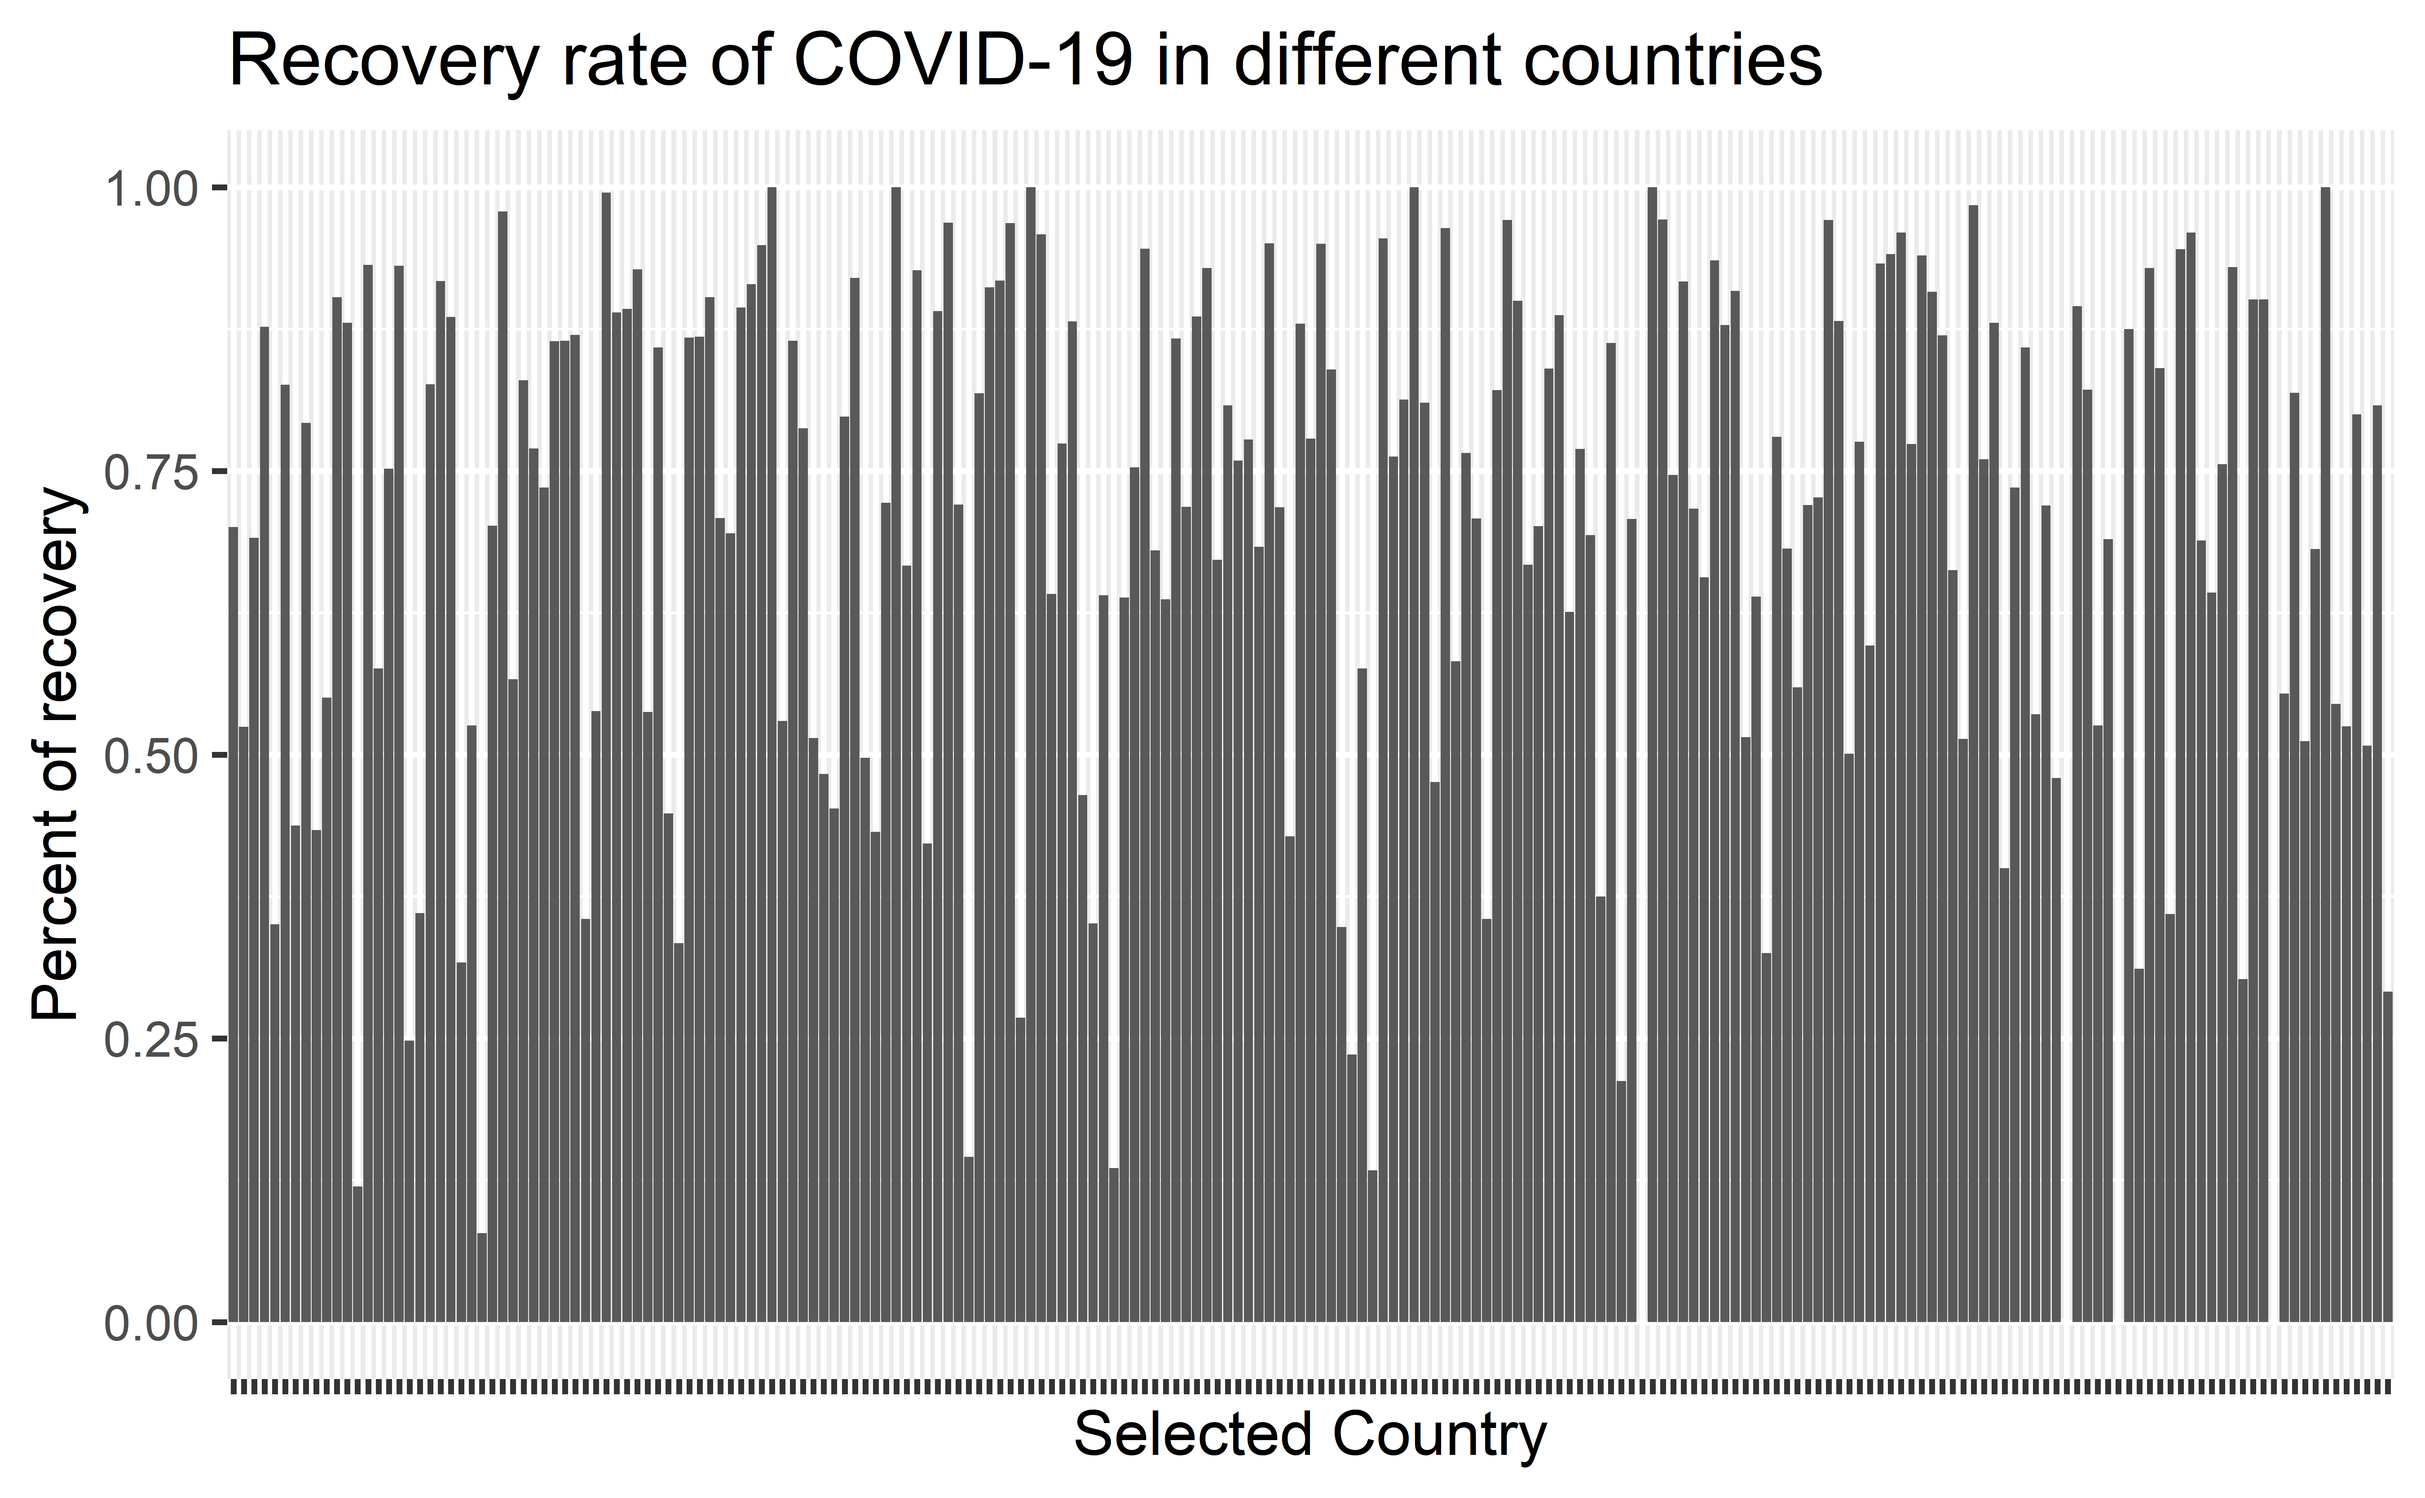
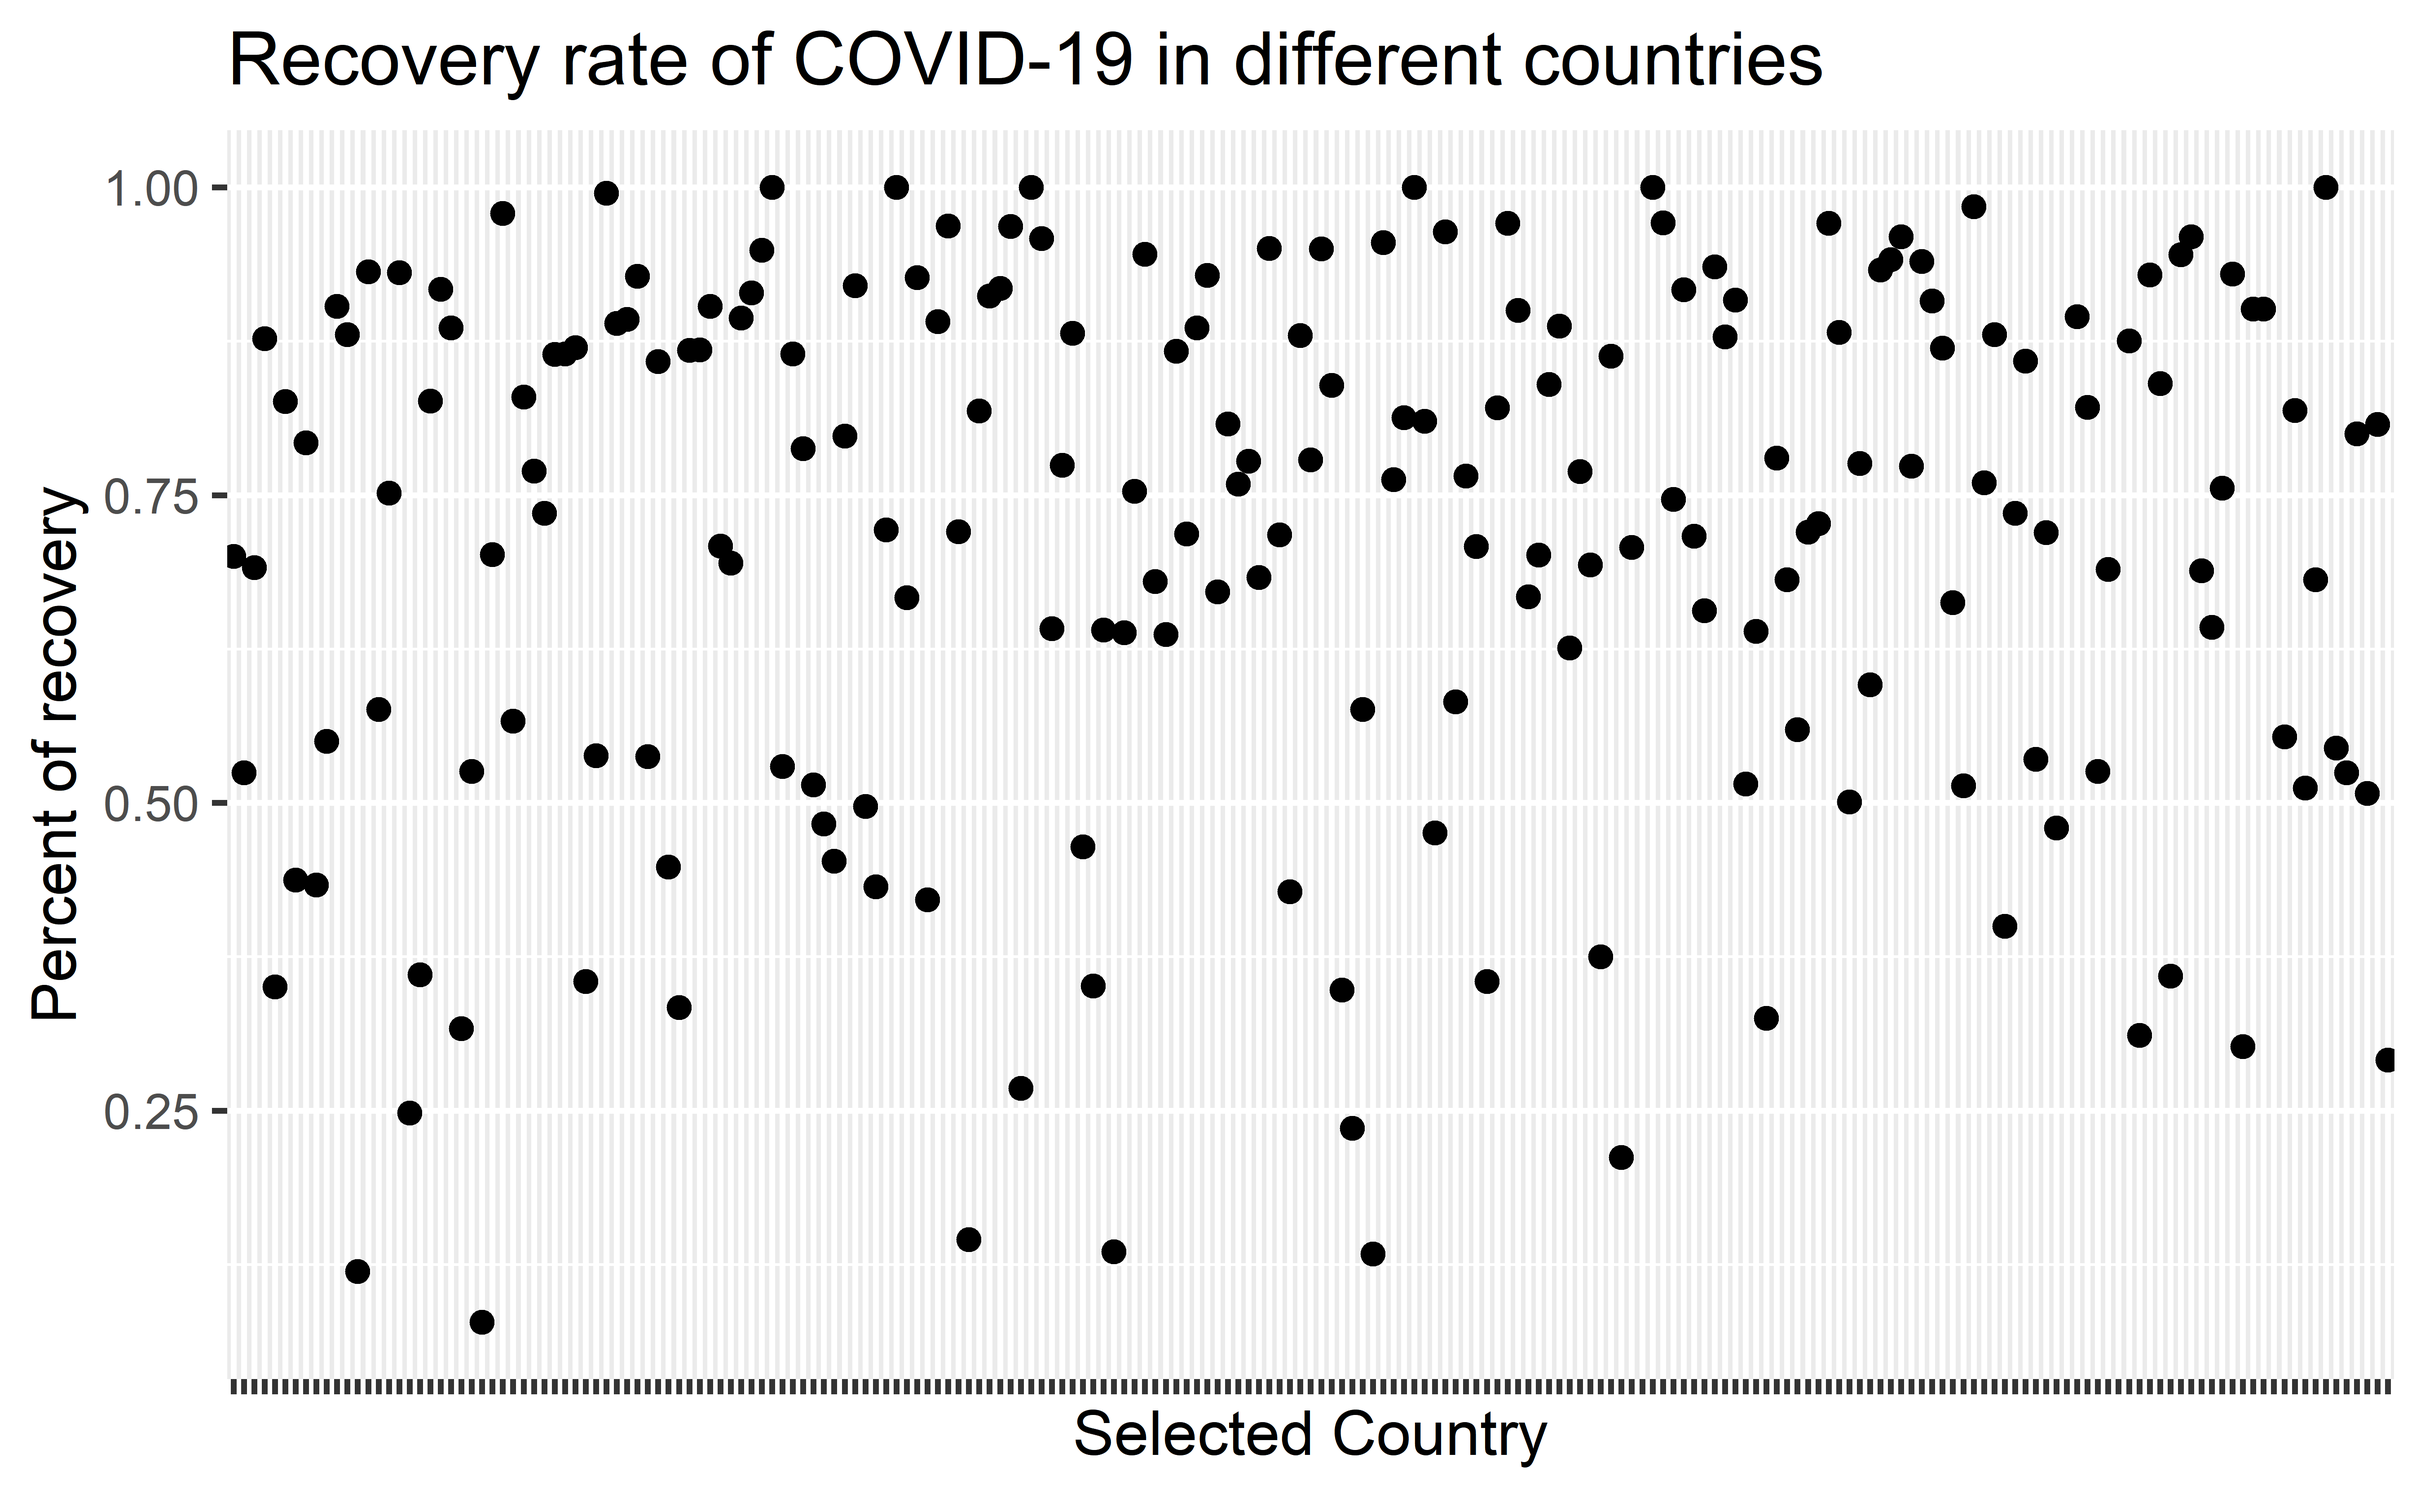
1

diff --git a/summary.html b/summary.html
@@ -422,6 +422,34 @@ the following details, we would pay more attention to Americas
 region,especially USA. We will also use death and recovered variables to
 do some data visualization.</p>
 </div>
+<div id="recovery-rate-of-covid-19-in-different-countries" class="section level2">
+<h2>Recovery rate of COVID-19 in different countries</h2>
+<p>We have retrieved the number of new crown infections and the number
+of recovered people in various countries in the world in 2022, and the
+recovery rate of the new crown virus can be obtained from our obtained
+data. In the figure, we can see that the recovery rates of different
+countries are not the same or even very different. Next, we will analyse
+the recovery rate in different regions. Then we extracted the data of
+countries with low recovery rate and countries with high recovery rate,
+and made a bar picture to clearly show that the recovery rate of the
+lowest country is even less than 10%, while that of countries with high
+recovery rate is even more than 98%, which is a very large range. Before
+data collation, it was speculated whether the recovery rate was related
+to the country’s economic and welfare policies. However, after obtaining
+different recovery rates and using Internet search engines, the data was
+not the same. Among countries with higher recovery rates, the per
+capital GDP of regions with higher recovery rates even reached 51875
+dollars per person, while that of regions with lower GDP was only 787
+dollars. Countries with low recovery rates have the same situation. It
+can be seen that recovery rates are not closely related to the national
+economy. In the process of data selection, we can clearly see that more
+countries have higher recovery rates from the data of all countries.
+Therefore, we can get that COVID-19 is not 100% fatal, and if it is
+unfortunately infected, there will be a greater chance of recovery, of
+course, it also depends on your region. In the process of analysing this
+problem, it is a very intuitive way to use r language to analyse and
+make icons.</p>
+</div>
 <div id="the-map-of-covid-distribute" class="section level2">
 <h2>the map of Covid distribute</h2>
 <p>In this question, we want to use maps to introduce the distribute of
@@ -483,6 +511,12 @@ positive to be higher, on average, by 0.729 percent.</p>
 <p>Then we make predictions for test data,plot the ROC curves,and
 calculate the areas under the ROC curves, we find model performs well,
 because it has o.98 areas under the line,is close to 1.</p>
+</div>
+<div id="data" class="section level2">
+<h2>DATA</h2>
+<p>All of the data we use are found on Kaggle.</p>
+<p><a href="https://www.kaggle.com/datasets/imdevskp/corona-virus-report?search=COVID-19+DATASET" class="uri">https://www.kaggle.com/datasets/imdevskp/corona-virus-report?search=COVID-19+DATASET</a>
+<a href="https://www.kaggle.com/datasets/rishanmascarenhas/covid19-temperatureoxygenpulse-rate" class="uri">https://www.kaggle.com/datasets/rishanmascarenhas/covid19-temperatureoxygenpulse-rate</a></p>
 </div>
 </div>
 

diff --git a/presentation.html b/presentation.html
@@ -173,7 +173,6 @@ class:inverse
 Countries with high COVID-19 recovery rate
 
 &lt;img src="presentation_files/figure-html/unnamed-chunk-12-1.png" width="80%" /&gt;
-
 ---
 class:inverse,middle,center
 #3. The map of covid distribution.

diff --git a/summary.md b/summary.md
@@ -24,14 +24,8 @@ The overall development trend of global cumulative death cases can be divided in
 
 Then we plotted two graphs of the top 15 countries with the number of confirmed cases and deaths and found that Americas region is the hardest-hit area in both deaths and confirmed number as expected. So in the following details, we would pay more attention to Americas region,especially USA. We will also use death and recovered variables to do some data visualization.
 
-
-
-
-
-
-
-
-
+## Recovery rate of COVID-19 in different countries
+We have retrieved the number of new crown infections and the number of recovered people in various countries in the world in 2022, and the recovery rate of the new crown virus can be obtained from our obtained data. In the figure, we can see that the recovery rates of different countries are not the same or even very different. Next, we will analyse the recovery rate in different regions. Then we extracted the data of countries with low recovery rate and countries with high recovery rate, and made a bar picture to clearly show that the recovery rate of the lowest country is even less than 10%, while that of countries with high recovery rate is even more than 98%, which is a very large range. Before data collation, it was speculated whether the recovery rate was related to the country's economic and welfare policies. However, after obtaining different recovery rates and using Internet search engines, the data was not the same. Among countries with higher recovery rates, the per capital GDP of regions with higher recovery rates even reached 51875 dollars per person, while that of regions with lower GDP was only 787 dollars. Countries with low recovery rates have the same situation. It can be seen that recovery rates are not closely related to the national economy. In the process of data selection, we can clearly see that more countries have higher recovery rates from the data of all countries. Therefore, we can get that COVID-19 is not 100% fatal, and if it is unfortunately infected, there will be a greater chance of recovery, of course, it also depends on your region. In the process of analysing this problem, it is a very intuitive way to use r language to analyse and make icons.
 
 ## the map of Covid distribute 
 In this question, we want to use maps to introduce the distribute of covid-19 in the year of 2020. Then we use ggplot2 generate two maps of covid-19 distribution, which are worldwide distribution and USA distribution separately due to the reason that from the data USA was the country hold the largest confirmed value in the year of 2020.
@@ -65,4 +59,8 @@ Intercept: Doesn't make sense in context.
 
 Then we make predictions for test data,plot the ROC curves,and calculate the areas under the ROC curves, we find model performs well, because it has o.98 areas under the line,is close to 1.
 
+## DATA
+All of the data we use are found on Kaggle.
 
+https://www.kaggle.com/datasets/imdevskp/corona-virus-report?search=COVID-19+DATASET
+https://www.kaggle.com/datasets/rishanmascarenhas/covid19-temperatureoxygenpulse-rate
